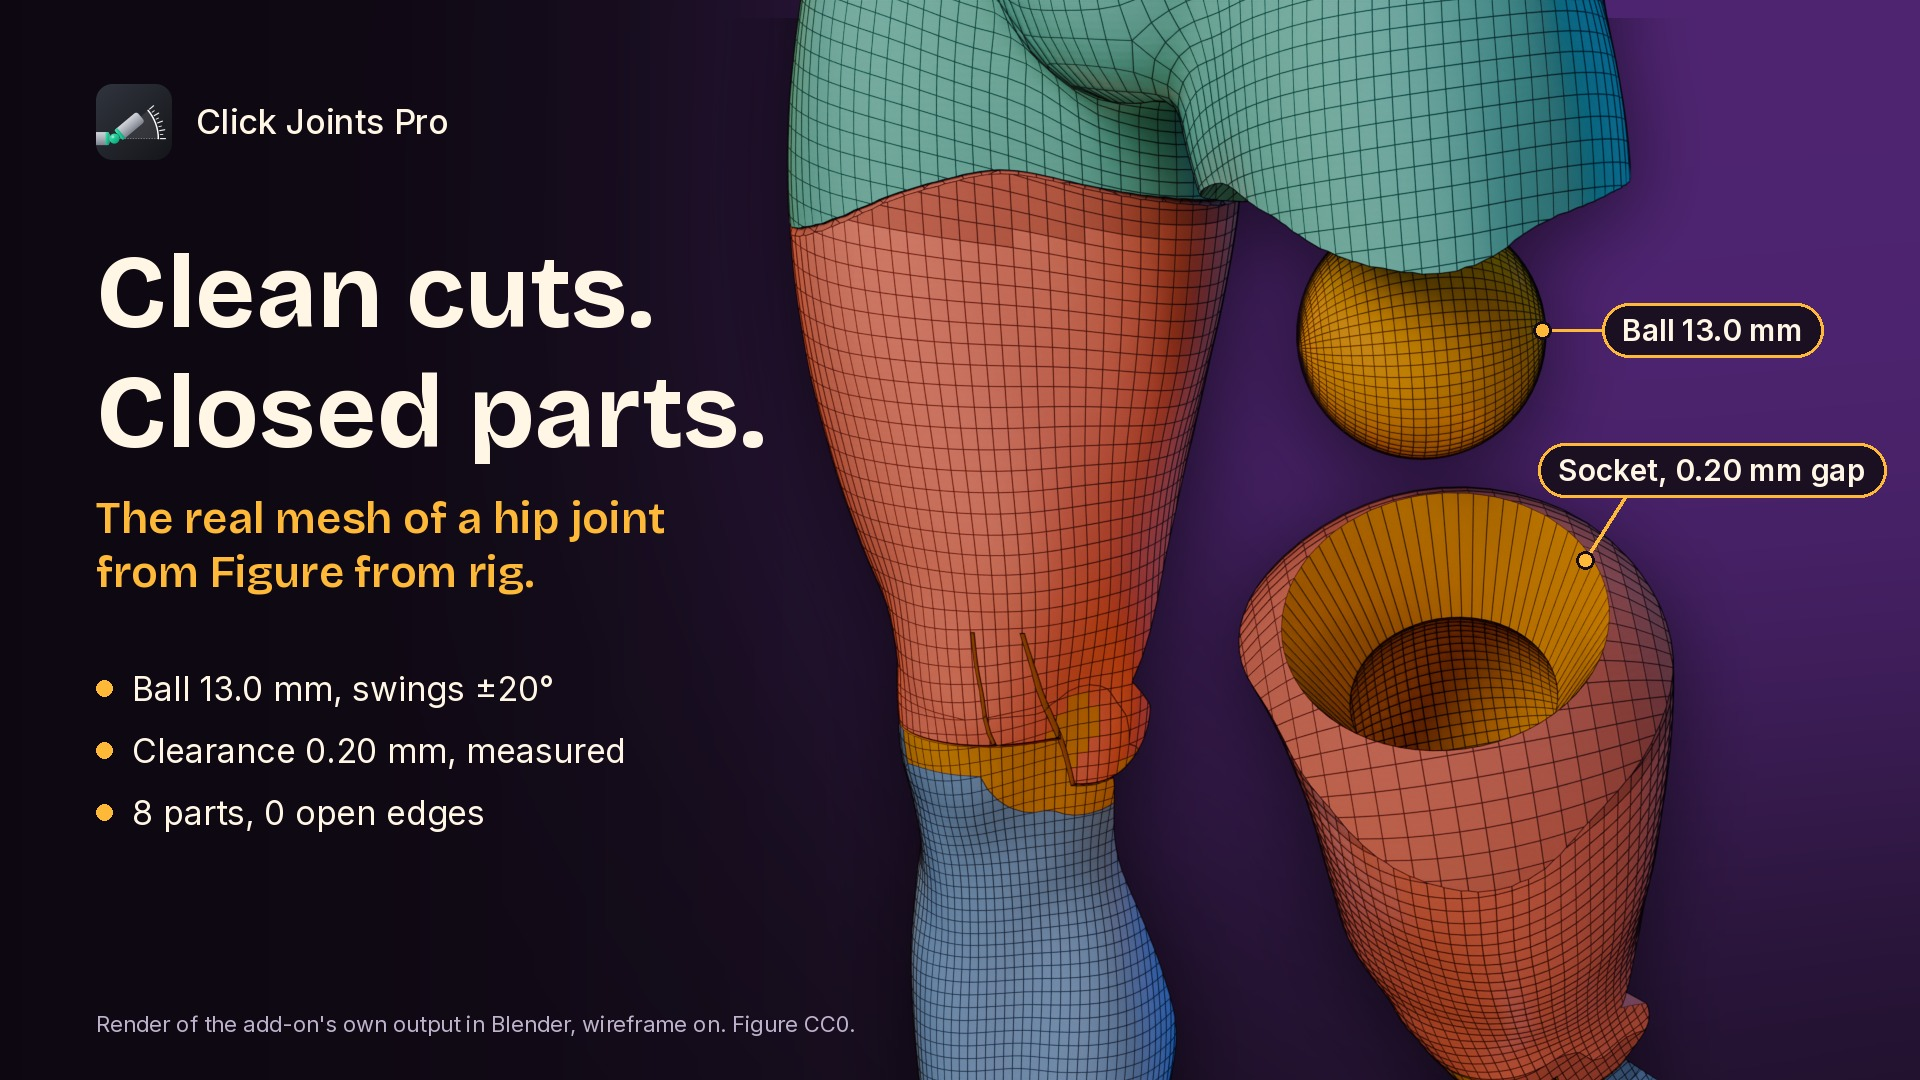
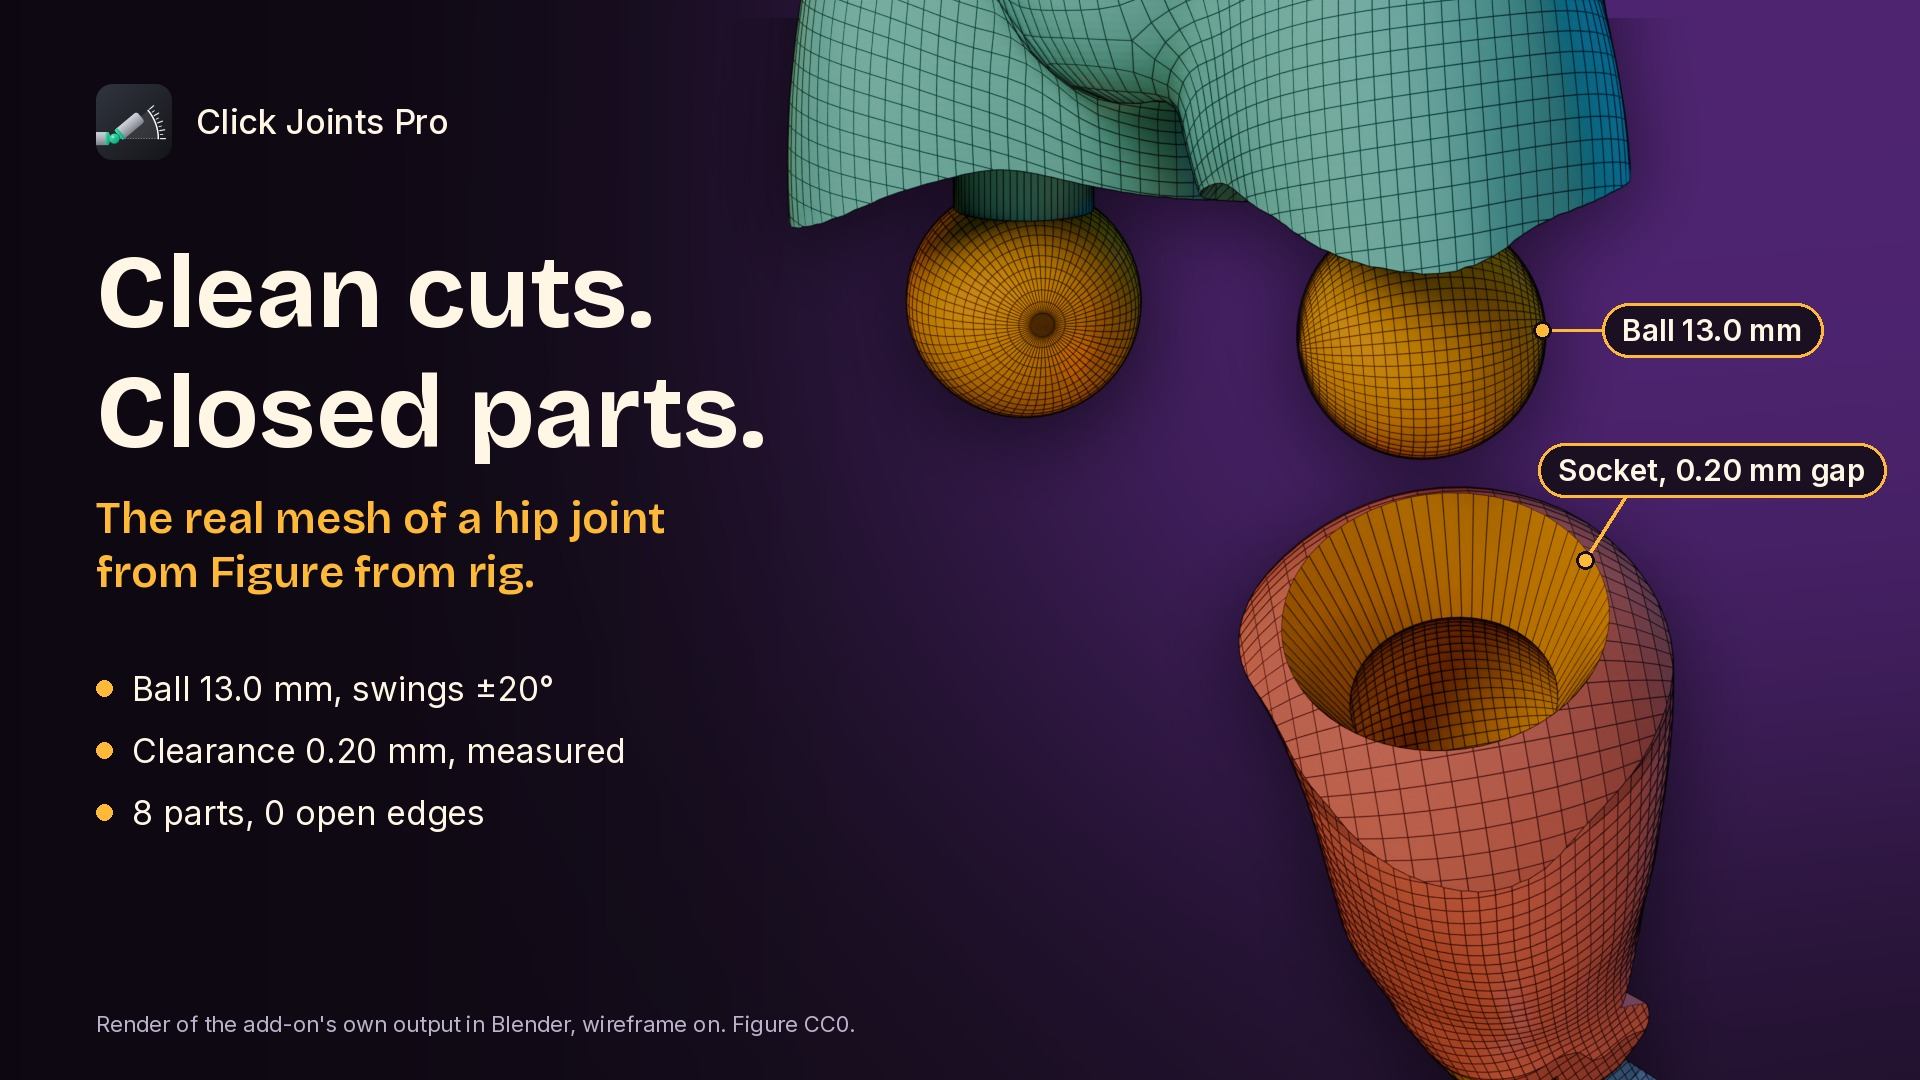
Beeldmaker #331 r2: kom-kogel zonder kniesnede, ook 2400x1200 (Daan #338 M1 M2)
Claude-Session: https://claude.ai/code/session_01RMWUykPn41Pw6TdJJK4Zn2

Changed region(s): [[0.4062, 0.1528, 0.6562, 1.0], [0.6875, 0.7639, 0.7188, 0.8556]]

diff --git a/ontwerp/pro-galerij/bron/kom_kogel_tekst.py b/ontwerp/pro-galerij/bron/kom_kogel_tekst.py
@@ -2,7 +2,8 @@
 
     python3 kom_kogel_tekst.py <kom-kogel-render.png (RGBA)> <kom-kogel.json> <uit.jpg> <fontmap> <icoon.svg>
 Elk getal komt uit kom-kogel.json (de add-on zelf): kogel, gemeten speling, aantal delen en open randen.
-Plek van de labels: KT_KOGEL=x,y en KT_KOM=x,y (pixels, op het oog in de render gemeten).
+Plek van de labels: KT_KOGEL=x,y en KT_KOM=x,y (pixels, op het oog in de render gemeten). De maat volgt de render
+(1920x1080 of 2400x1200); letters en marges schalen mee met de hoogte.
 """
 import json
 import math
@@ -13,7 +14,15 @@ from PIL import Image, ImageDraw, ImageFilter, ImageFont
 
 RENDER, META, UIT, FONTS, ICOON = sys.argv[1:6]
 m = json.load(open(META))
-W, H = 1920, 1080
+ren0 = Image.open(RENDER)
+W, H = ren0.size   # 1920x1080 (Gumroad) of 2400x1200 (Superhive, #338 M2)
+S = H / 1080       # tekst en marges schalen mee met de hoogte
+SX = W / 1920
+
+
+def s_(v):
+    return int(round(v * S))
+
 CREME, GOUD, GRIJS = (255, 246, 230), (255, 185, 56), (190, 178, 205)
 
 
@@ -30,14 +39,14 @@ def font(naam, maat, gewicht):
 bg = Image.new("RGB", (W, H), (20, 12, 26))
 gl = Image.new("L", (W, H), 0)
 d = ImageDraw.Draw(gl)
-d.ellipse((900, -250, 2150, 900), fill=255)
-gl = gl.filter(ImageFilter.GaussianBlur(260))
+d.ellipse((900 * SX, -250 * S, 2150 * SX, 900 * S), fill=255)
+gl = gl.filter(ImageFilter.GaussianBlur(s_(260)))
 bg = Image.composite(Image.new("RGB", (W, H), (88, 40, 128)), bg, gl.point(lambda v: int(v * 0.85)))
 bg = bg.convert("RGBA")
 ren = Image.open(RENDER).convert("RGBA")
 schaduw = Image.new("RGBA", (W, H), (0, 0, 0, 0))
-schaduw.putalpha(ren.getchannel("A").filter(ImageFilter.GaussianBlur(40)).point(lambda v: int(v * 0.55)))
-bg.alpha_composite(schaduw, (0, 18))
+schaduw.putalpha(ren.getchannel("A").filter(ImageFilter.GaussianBlur(s_(40))).point(lambda v: int(v * 0.55)))
+bg.alpha_composite(schaduw, (0, s_(18)))
 bg.alpha_composite(ren)
 img = bg
 d = ImageDraw.Draw(img)
@@ -45,62 +54,63 @@ d = ImageDraw.Draw(img)
 # links zachte donkere overgang achter de tekst
 mk = Image.new("L", (W, 1), 0)
 for x in range(W):
-    mk.putpixel((x, 0), int(170 * max(0.0, 1 - x / 900) ** 1.5))
+    mk.putpixel((x, 0), int(170 * max(0.0, 1 - x / (900 * S)) ** 1.5))
 img.alpha_composite(Image.composite(Image.new("RGBA", (W, H), (14, 8, 20, 255)), Image.new("RGBA", (W, H), (0, 0, 0, 0)), mk.resize((W, H))))
 d = ImageDraw.Draw(img)
 
-X = 96
+X = s_(96)
 # kop: icoon en productnaam
-os.system(f"rsvg-convert -w 76 '{ICOON}' -o /tmp/_kk_icoon.png")
+os.system(f"rsvg-convert -w {s_(76)} '{ICOON}' -o /tmp/_kk_icoon.png")
 ic = Image.open("/tmp/_kk_icoon.png").convert("RGBA")
-img.alpha_composite(ic, (X, 84))
-d.text((X + 100, 122), "Click Joints Pro", font=font("Inter.ttf", 34, "Medium"), fill=CREME, anchor="lm")
+img.alpha_composite(ic, (X, s_(84)))
+d.text((X + s_(100), s_(122)), "Click Joints Pro", font=font("Inter.ttf", s_(34), "Medium"), fill=CREME, anchor="lm")
 
 # titel en één regel
-ft = font("Bricolage.ttf", 104, "Bold")
-d.text((X, 230), "Clean cuts.", font=ft, fill=CREME)
-d.text((X, 350), "Closed parts.", font=ft, fill=CREME)
-fs = font("Bricolage.ttf", 44, "SemiBold")
-d.text((X, 492), "The real mesh of a hip joint", font=fs, fill=GOUD)
-d.text((X, 546), "from Figure from rig.", font=fs, fill=GOUD)
+ft = font("Bricolage.ttf", s_(104), "Bold")
+d.text((X, s_(230)), "Clean cuts.", font=ft, fill=CREME)
+d.text((X, s_(350)), "Closed parts.", font=ft, fill=CREME)
+fs = font("Bricolage.ttf", s_(44), "SemiBold")
+d.text((X, s_(492)), "The real mesh of a hip joint", font=fs, fill=GOUD)
+d.text((X, s_(546)), "from Figure from rig.", font=fs, fill=GOUD)
 
 # drie feiten uit de add-on
-fb = font("Inter.ttf", 34, "Regular")
+fb = font("Inter.ttf", s_(34), "Regular")
 dl = sum(1 for _ in m["open_randen"])
 open_tot = sum(m["open_randen"].values())
 feiten = [f"Ball {m['kogel_d_mm']:.1f} mm, swings ±{m['graden']:.0f}°",
           f"Clearance {m['speling_gemeten_mm']:.2f} mm, measured",
           f"{dl} parts, {open_tot} open edges"]
-y = 668
+y = s_(668)
 for t in feiten:
-    d.ellipse((X, y + 12, X + 16, y + 28), fill=GOUD)
-    d.text((X + 36, y), t, font=fb, fill=CREME)
-    y += 62
+    d.ellipse((X, y + s_(12), X + s_(16), y + s_(28)), fill=GOUD)
+    d.text((X + s_(36), y), t, font=fb, fill=CREME)
+    y += s_(62)
 
 # voetregel: wat je ziet
-fv = font("Inter.ttf", 22, "Regular")
-d.text((X, 1010), "Render of the add-on's own output in Blender, wireframe on. Figure CC0.", font=fv, fill=GRIJS)
+fv = font("Inter.ttf", s_(22), "Regular")
+d.text((X, H - s_(70)), "Render of the add-on's own output in Blender, wireframe on. Figure CC0.", font=fv, fill=GRIJS)
 
 
-def pil(tekst, punt, kant, dx, maat=30, plek=None):
+def pil(tekst, punt, kant, dx, maat=None, plek=None):
     """Label als pil met gouden rand, lijn naar het punt (zoals de labels op het hoofdbeeld)."""
-    f = font("Inter.ttf", maat, "SemiBold")
-    bw = d.textlength(tekst, font=f) + 40
-    bh = 54
+    f = font("Inter.ttf", maat or s_(30), "SemiBold")
+    bw = d.textlength(tekst, font=f) + s_(40)
+    bh = s_(54)
     px_, py_ = punt
     lx = px_ + dx if kant > 0 else px_ - dx - bw
     ly = py_ - bh / 2
-    lx = min(lx, W - bw - 24)
+    lx = min(lx, W - bw - s_(24))
     eind = lx if kant > 0 else lx + bw
     if plek:   # pil op een vaste plek (midden x,y), schuine lijn naar de onderrand
         lx, ly = plek[0] - bw / 2, plek[1] - bh / 2
-        d.line((px_, py_, plek[0] - bw * 0.25, ly + bh), fill=GOUD, width=3)
+        d.line((px_, py_, plek[0] - bw * 0.25, ly + bh), fill=GOUD, width=s_(3))
         py_l = plek[1]
     else:
-        d.line((px_, py_, eind, py_), fill=GOUD, width=3)
+        d.line((px_, py_, eind, py_), fill=GOUD, width=s_(3))
         py_l = py_
-    d.ellipse((px_ - 9, py_ - 9, px_ + 9, py_ + 9), fill=GOUD, outline=(20, 12, 26), width=3)
-    d.rounded_rectangle((lx, ly, lx + bw, ly + bh), radius=bh / 2, fill=(26, 16, 34, 235), outline=GOUD, width=3)
+    r9 = s_(9)
+    d.ellipse((px_ - r9, py_ - r9, px_ + r9, py_ + r9), fill=GOUD, outline=(20, 12, 26), width=s_(3))
+    d.rounded_rectangle((lx, ly, lx + bw, ly + bh), radius=bh / 2, fill=(26, 16, 34, 235), outline=GOUD, width=s_(3))
     d.text((lx + bw / 2, py_l), tekst, font=f, fill=CREME, anchor="mm")
 
 

diff --git a/ontwerp/pro-galerij/bron/kom_kogel.py b/ontwerp/pro-galerij/bron/kom_kogel.py
@@ -12,7 +12,7 @@ Uit: kom-kogel-render.png (1920x1080, zonder tekst) en kom-kogel.json (maten uit
 en waar kogel, kom en snederand in beeld staan, voor tekst.py).
 Variabelen: KK_GEWRICHT (standaard Left hip), KK_UIT (mm uit elkaar langs de as), KK_KANTEL (graden dat de dij naar de
 camera kantelt), KK_CAM (afstand,draai,hoogte in mm en graden), KK_DOEL (x,y,z verschuiving van het midden in mm),
-KK_LENS, KK_GAAS (lijndikte in mm), KK_GAAS_ALFA.
+KK_LENS, KK_GAAS (lijndikte in mm), KK_GAAS_ALFA, KK_MAAT (breedtexhoogte, standaard 1920x1080).
 """
 import json
 import math
@@ -230,7 +230,8 @@ cd.dof.use_dof = bool(os.environ.get("KK_DOF"))
 if cd.dof.use_dof:
     cd.dof.focus_distance = (doel - cam.location).length
     cd.dof.aperture_fstop = float(os.environ["KK_DOF"])
-sc.render.resolution_x, sc.render.resolution_y = 1920, 1080
+RW, RH = (int(v) for v in os.environ.get("KK_MAAT", "1920x1080").split("x"))   # 2400x1200 voor Superhive (#338 M2)
+sc.render.resolution_x, sc.render.resolution_y = RW, RH
 sc.render.resolution_percentage = SCHAAL
 sc.render.use_border = False
 sc.render.film_transparent = bool(os.environ.get("KK_DOORZICHTIG"))   # achtergrond komt dan uit tekst.py
@@ -247,7 +248,7 @@ bpy.context.view_layer.update()
 
 def px(w):
     q = world_to_camera_view(sc, cam, w)
-    return [round(q.x * 1920, 1), round((1 - q.y) * 1080, 1)]
+    return [round(q.x * RW, 1), round((1 - q.y) * RH, 1)]
 
 
 # ankerpunten voor de labels: onderkant van de kogel, midden van de kom, rand van de snede op de dij

diff --git a/ontwerp/pro-galerij/LEESMIJ.md b/ontwerp/pro-galerij/LEESMIJ.md
@@ -101,3 +101,17 @@ KT_KOGEL=1542,330 KT_KOGEL_DX=60 KT_KOM=1585,560 KT_KOM_PIL=1712,470 \
   python3 ontwerp/pro-galerij/bron/kom_kogel_tekst.py <uit>/kom-kogel-render.png <uit>/kom-kogel.json beelden/kom-kogel-1920x1080.jpg <fonts> ontwerp/click-joints/bron/icoon.svg
 ```
 Blinde test: set `organisatie/blindtest/sets/click-joints-pro-galerij-kom-kogel.json` tegen Cleave (Connectors that fit), CatPin (More tools 1.0.7) en Split 3D Print.
+
+**Ronde 2 (28 nov ±04:00, Daan #338 M1 en M2):** `beelden/kom-kogel-1920x1080.jpg` (vervangen) en nieuw `beelden/kom-kogel-2400x1200.jpg` (maten `beelden/kom-kogel-2400.json`).
+- **M1:** het rechterbeen staat niet meer in beeld (`KK_ANDER=""`), dus geen kniesnede, geen oranje knieschijf en geen goud vierkantje meer onder "Clean cuts.". Nu zie je de romp met allebei zijn heupkogels; bij de rechterkogel zie je ook de hals tussen romp en kogel (Daans kan-punt dat de kogel los leek te zweven). Verder alles als ronde 1.
+- **M2:** zelfde scène op 2400x1200 (`KK_MAAT=2400x1200`, nieuw in `kom_kogel.py`; lens 75,6 in plaats van 85 zodat de hoogte van het beeld hetzelfde stuk laat zien). `kom_kogel_tekst.py` neemt nu de maat van de render en schaalt letters en marges mee met de hoogte; op 1920x1080 tekent hij precies als eerst.
+- Getallen gelijk aan ronde 1 (json vergeleken, GEZIEN): kogel 13,0 mm, speling gemeten 0,1996 mm, ±20°, 8 delen met 0 open randen. Code van de add-on en scripts van het hoofdbeeld uit f340da1 (zelfde stand als ronde 1). Render lokaal Blender 5.3.0, Cycles 96: 178 s en 225 s (GEZIEN).
+- Kan-punt roze puntje rechtsonder: blijft, het is een stukje van het kniescharnier van het linkerbeen aan de onderrand; klein en valt weg op de duim.
+```
+KK_DOORZICHTIG=1 KK_SHIFT=-0.25 KK_MEE="Left knee" KK_ANDER="" KK_LICHT=6 KK_CAM=240,34,10 KK_DOEL=0,0,0 KK_UIT=22 KK_KANTEL=40 \
+  blender -b <basis>/hoofdbeeld.blend --python ontwerp/pro-galerij/bron/kom_kogel.py -- <uit> 96 100
+KK_MAAT=2400x1200 KK_LENS=75.6 <KK_* als hierboven> blender ... kom_kogel.py -- <uit2> 96 100
+KT_KOGEL=1542,330 KT_KOGEL_DX=60 KT_KOM=1585,560 KT_KOM_PIL=1712,470 python3 ontwerp/pro-galerij/bron/kom_kogel_tekst.py <uit>/kom-kogel-render.png <uit>/kom-kogel.json beelden/kom-kogel-1920x1080.jpg <fonts> ontwerp/click-joints/bron/icoon.svg
+KT_KOGEL=1913,366 KT_KOGEL_DX=67 KT_KOM=1961,622 KT_KOM_PIL=2102,522 python3 ontwerp/pro-galerij/bron/kom_kogel_tekst.py <uit2>/kom-kogel-render.png <uit2>/kom-kogel.json beelden/kom-kogel-2400x1200.jpg <fonts> ontwerp/click-joints/bron/icoon.svg
+```
+Fonts: Bricolage Grotesque en Inter (OFL), variabel, uit de npm-pakketten @fontsource-variable (latin, naar ttf gezet met fonttools). Blinde test niet opnieuw (Daan #338: alleen knie en maat veranderen).

diff --git a/berichten/beeldmaker.md b/berichten/beeldmaker.md
@@ -153,3 +153,6 @@ Uitslag r4: GESLAAGD, Gemini 1,0, plek 1 in beide rondes (r3 1,5 in dezelfde run
 
 ## 28 nov 2026 ±02:10 NL, Beeldmaker (eigen log)
 #331 (hoofdmanager): Pro-galerijbeeld kom en kogel van de heup met het echte gaas (`ontwerp/pro-galerij/beelden/kom-kogel-1920x1080.jpg`), blinde test GESLAAGD Gemini 1,0 (`click-joints-pro-galerij-kom-kogel-2026-11-28-0103.md`), keuring #338. Volgende: na Daans ja klaar om te plakken in #317 en #331 dicht.
+
+## 28 nov 2026 ±02:49 NL, Beeldmaker (eigen log)
+#331 ronde 2 (Daan #338 M1, M2): rechterbeen uit beeld, nu romp met beide heupkogels (hals zichtbaar), geen kniesnede meer; ook 2400x1200 (`ontwerp/pro-galerij/beelden/kom-kogel-*`). Getallen gelijk aan r1. Nakeuring aangevraagd. Volgende: na Daans ja klaar om te plakken in #317 en #331 dicht.
